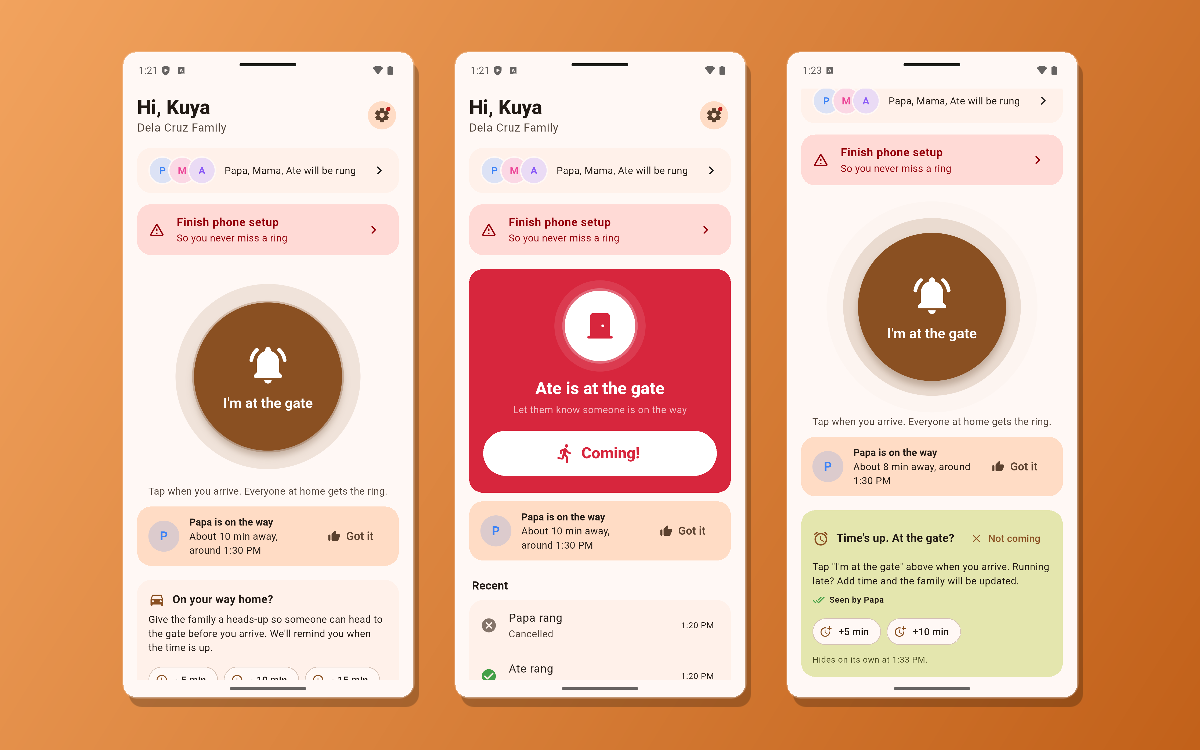
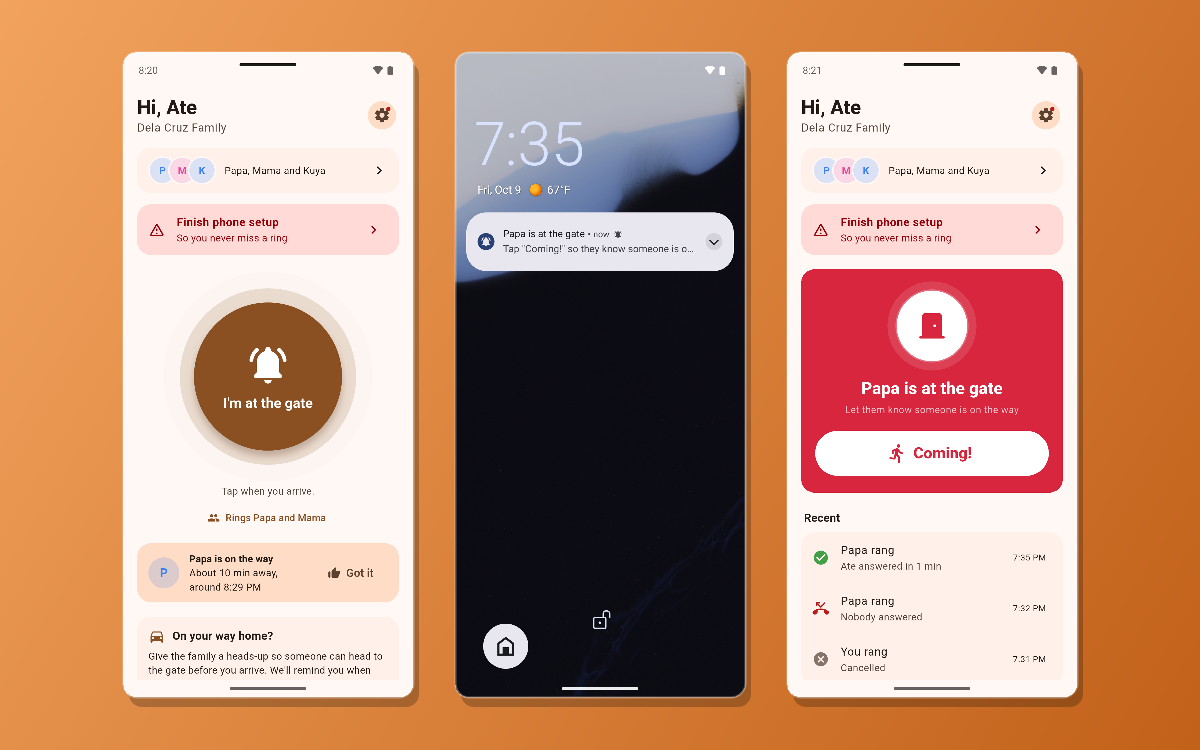
HomeBell card: new image and wording for choose-who-rings and lock-screen answering

diff --git a/index.html b/index.html
@@ -404,9 +404,10 @@
               <h3 class="project-card__title">HomeBell</h3>
               <p class="project-card__role">Personal project · Android app in daily family use</p>
               <p class="project-card__desc">
-                Tap "I'm at the gate" and every phone at home rings like an incoming call, even
-                locked, until someone taps "Coming!". Adds "on my way" heads-ups with reminders,
-                and per-brand setup so rings survive aggressive battery savers.
+                Tap "I'm at the gate" and the family's phones (or just the ones you pick) ring like
+                an incoming call, even locked, until someone taps "Coming!" right from the lock
+                screen. Adds "on my way" heads-ups with reminders, and per-brand setup so rings
+                survive aggressive battery savers.
               </p>
               <ul class="project-card__tech">
                 <li>Flutter</li><li>Kotlin</li><li>Spring Boot</li><li>PostgreSQL</li><li>Firebase (FCM)</li>

diff --git a/assets/projects/README.md b/assets/projects/README.md
@@ -9,7 +9,7 @@ Each project card in `index.html` points at one image here.
 | `ahc-corporate.webp`  | AHC Corporate Site & Patient Registration | ✅ captured |
 | `piu.webp`            | PIU Report & Automated Response (Petersen) | ✅ captured |
 | `aga-appointment.webp`| AGA Clinic Appointment App (login screen) | ✅ captured |
-| `homebell.png`        | HomeBell (three phone screens on orange, made-up "Dela Cruz" demo family) | ✅ composed |
+| `homebell.png`        | HomeBell (home, locked-phone ring, ringing; made-up "Dela Cruz" demo family) | ✅ composed |
 
 The captured images are landing-page (or login) screenshots compressed to WebP
 (~1000px wide, quality 80).
